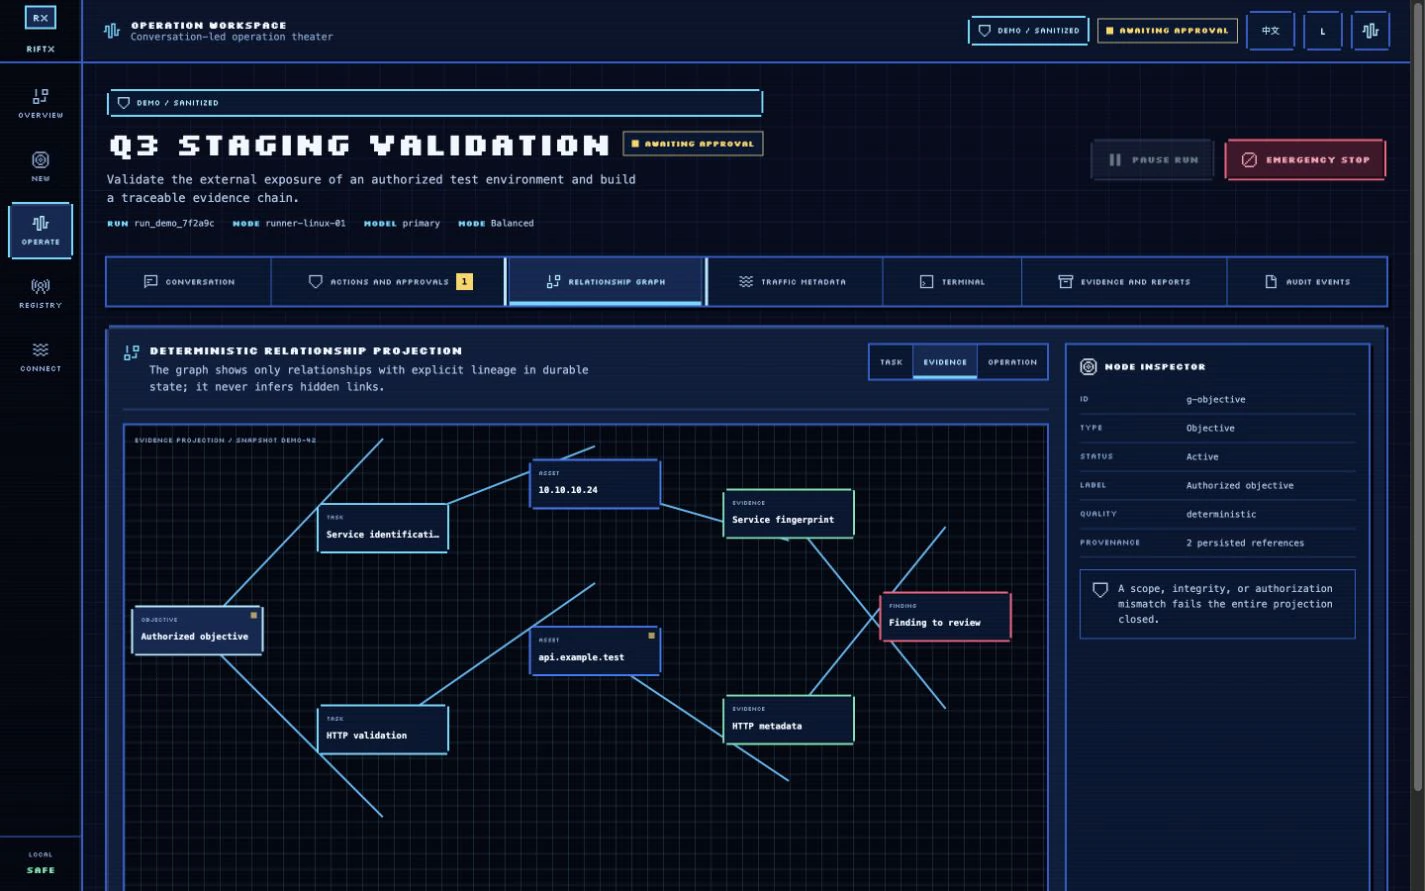
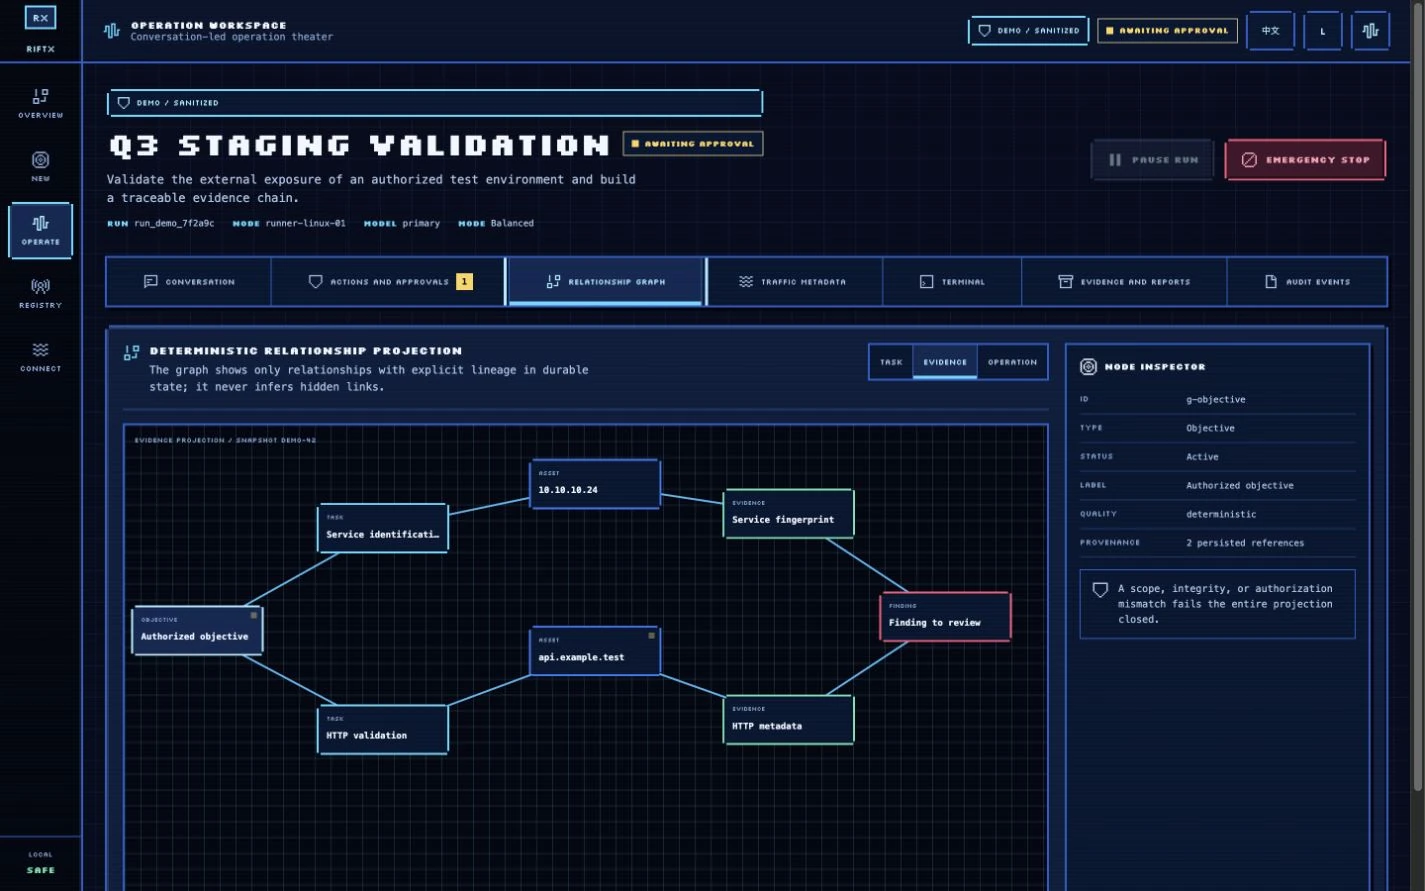
fix: refine graph connectors and README locale links

diff --git a/apps/demo/src/views/OperationView.tsx b/apps/demo/src/views/OperationView.tsx
@@ -1,13 +1,12 @@
 import {
   useState,
-  type CSSProperties,
   type Dispatch,
   type FormEvent,
 } from "react";
 
 import { PixelIcon, type PixelIconName } from "../components/PixelIcon";
 import { DemoStamp, PanelHeading, StatusPill } from "../components/Ui";
-import { getDemoData, type GraphNodeRecord } from "../data/demo";
+import { getDemoData } from "../data/demo";
 import type {
   DemoAction,
   DemoState,
@@ -440,17 +439,6 @@ const graphEdges = [
   ["g-evidence-2", "g-finding"],
 ] as const;
 
-function edgeStyle(from: GraphNodeRecord, to: GraphNodeRecord): CSSProperties {
-  const dx = to.x - from.x;
-  const dy = to.y - from.y;
-  return {
-    left: `${from.x}%`,
-    top: `${from.y}%`,
-    width: `${Math.hypot(dx, dy)}%`,
-    transform: `rotate(${Math.atan2(dy, dx)}rad)`,
-  };
-}
-
 function GraphWorkspace({
   state,
   dispatch,
@@ -490,11 +478,29 @@ function GraphWorkspace({
           <div className="graph-grid-label">
             {viewLabel(view).toUpperCase()} {t("PROJECTION / SNAPSHOT", "投影 / 快照")} DEMO-42
           </div>
-          {graphEdges.map(([fromId, toId]) => {
-            const from = graphNodes.find((node) => node.id === fromId)!;
-            const to = graphNodes.find((node) => node.id === toId)!;
-            return <span key={`${fromId}-${toId}`} className="graph-edge" style={edgeStyle(from, to)} aria-hidden="true" />;
-          })}
+          <svg
+            className="graph-edges"
+            viewBox="0 0 100 100"
+            preserveAspectRatio="none"
+            aria-hidden="true"
+            focusable="false"
+          >
+            {graphEdges.map(([fromId, toId]) => {
+              const from = graphNodes.find((node) => node.id === fromId)!;
+              const to = graphNodes.find((node) => node.id === toId)!;
+              return (
+                <line
+                  key={`${fromId}-${toId}`}
+                  className="graph-edge"
+                  x1={from.x}
+                  y1={from.y}
+                  x2={to.x}
+                  y2={to.y}
+                  vectorEffect="non-scaling-stroke"
+                />
+              );
+            })}
+          </svg>
           {graphNodes.map((node) => (
             <button
               key={node.id}

diff --git a/apps/demo/src/App.test.tsx b/apps/demo/src/App.test.tsx
@@ -112,6 +112,31 @@ describe("App", () => {
     ).toBeInTheDocument();
   });
 
+  it("draws relationship edges in an aspect-ratio-independent SVG layer", async () => {
+    const user = userEvent.setup();
+    render(<App />);
+
+    await user.click(primaryNavigation().getByRole("button", { name: "Operation Workspace" }));
+    await user.click(screen.getByRole("button", { name: "Relationship Graph" }));
+
+    const edgeLayer = document.querySelector(".graph-edges");
+    expect(edgeLayer).toBeInstanceOf(SVGSVGElement);
+    expect(edgeLayer).toHaveAttribute("viewBox", "0 0 100 100");
+    expect(edgeLayer).toHaveAttribute("preserveAspectRatio", "none");
+    expect(edgeLayer).toHaveAttribute("aria-hidden", "true");
+
+    const edges = edgeLayer?.querySelectorAll("line.graph-edge");
+    expect(edges).toHaveLength(8);
+    expect(edges?.item(0)).toHaveAttribute("x1", "8");
+    expect(edges?.item(0)).toHaveAttribute("y1", "42");
+    expect(edges?.item(0)).toHaveAttribute("x2", "28");
+    expect(edges?.item(0)).toHaveAttribute("y2", "21");
+    expect(edges?.item(7)).toHaveAttribute("x1", "72");
+    expect(edges?.item(7)).toHaveAttribute("y1", "60");
+    expect(edges?.item(7)).toHaveAttribute("x2", "89");
+    expect(edges?.item(7)).toHaveAttribute("y2", "39");
+  });
+
   it("persists the theme choice locally without remote work", async () => {
     const user = userEvent.setup();
     render(<App />);

diff --git a/apps/demo/src/styles/views.css b/apps/demo/src/styles/views.css
@@ -1278,20 +1278,28 @@
   font-size: 7px;
 }
 
-.graph-edge {
+.graph-edges {
   position: absolute;
+  inset: 0;
   z-index: 1;
-  height: 2px;
-  transform-origin: left center;
-  background: var(--line);
+  width: 100%;
+  height: 100%;
+  pointer-events: none;
+}
+
+.graph-edge {
+  stroke: var(--line);
+  stroke-width: 2px;
+  stroke-linecap: butt;
+  shape-rendering: geometricPrecision;
 }
 
 .graph-view-evidence .graph-edge {
-  background: color-mix(in srgb, var(--cyan) 70%, var(--line));
+  stroke: color-mix(in srgb, var(--cyan) 70%, var(--line));
 }
 
 .graph-view-operation .graph-edge {
-  background: color-mix(in srgb, var(--gold) 68%, var(--line));
+  stroke: color-mix(in srgb, var(--gold) 68%, var(--line));
 }
 
 .graph-node {
@@ -2689,7 +2697,7 @@
     padding: 42px 10px 10px;
   }
 
-  .graph-edge {
+  .graph-edges {
     display: none;
   }
 

diff --git a/README.md b/README.md
@@ -1,7 +1,3 @@
-<div align="right">
-  <strong>English</strong> · <a href="./README_ZH.md">简体中文</a>
-</div>
-
 <div align="center">
 
 # RiftX
@@ -27,6 +23,10 @@ decisions into one observable and recoverable control protocol.
   <img alt="TypeScript 7" src="https://img.shields.io/badge/TypeScript-7-3178C6?style=flat-square&logo=typescript&logoColor=white">
   <img alt="Vite 8" src="https://img.shields.io/badge/Vite-8-646CFF?style=flat-square&logo=vite&logoColor=white">
   <img alt="pnpm 10" src="https://img.shields.io/badge/pnpm-10-F69220?style=flat-square&logo=pnpm&logoColor=white">
+</p>
+
+<p>
+  <strong>English</strong> · <a href="./README_ZH.md">中文</a>
 </p>
 
 </div>
